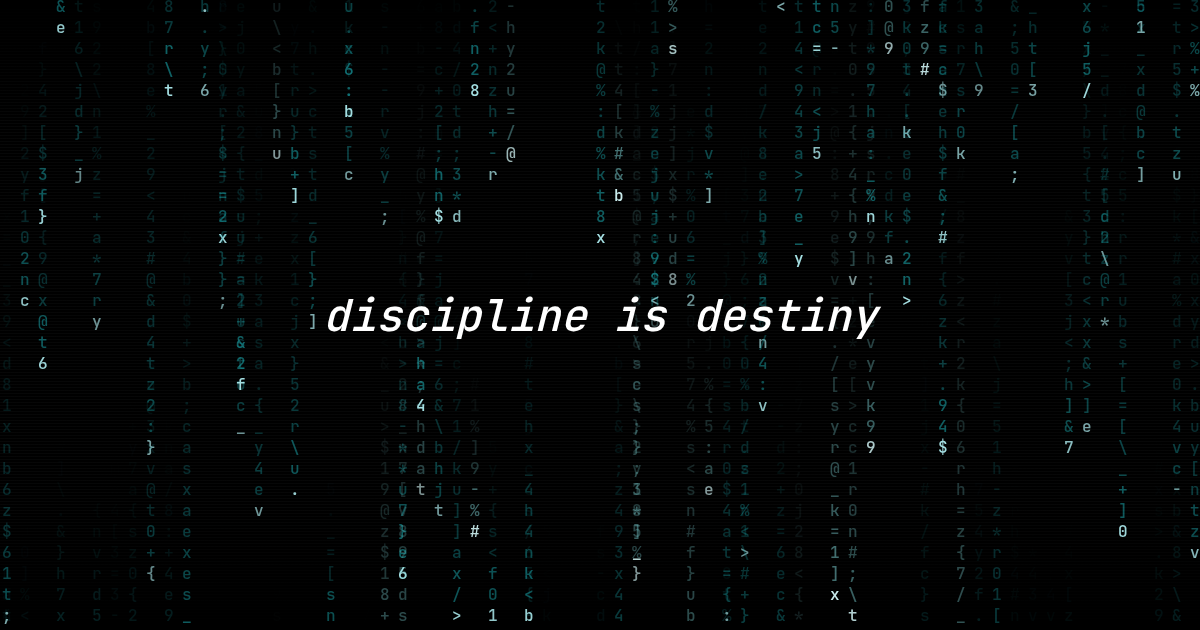
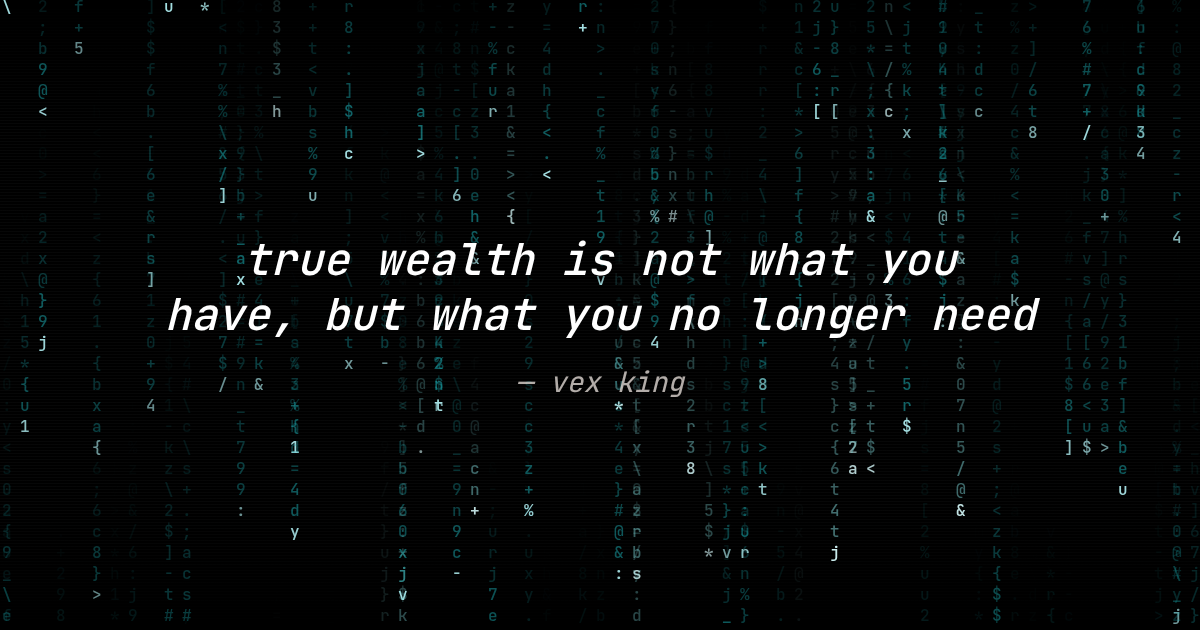
Set the quiet header to the Vex King line.
The shared title is now "true wealth is not what you have, but what you no longer need", with "vex king" on the line under it. The share card and page titles match.

diff --git a/site/confirmed/index.html b/site/confirmed/index.html
@@ -11,7 +11,7 @@
 <meta name="color-scheme" content="dark light">
 <script>document.documentElement.classList.add('js')</script>
 <title>you're in · jay tha ninja</title>
-<link rel="stylesheet" href="/habits/habits.css?v=3.07">
+<link rel="stylesheet" href="/habits/habits.css?v=3.08">
 <style>
[2 lines of base64/hex data omitted]
@@ -93,7 +93,8 @@ a:focus-visible{outline:2px solid var(--c);outline-offset:2px}
 
 <main class="stage" id="stage">
   <div class="copy">
-    <header class="mast"><h1 class="pages"><span class="pages-t">discipline is destiny</span></h1>
+    <header class="mast"><h1 class="pages"><span class="pages-t">true wealth is not what you have, but what you no longer need</span></h1>
+      <p class="pages-by">— vex king</p>
       <div class="site-menu">
         <button type="button" class="menu-btn" aria-label="menu" aria-expanded="false" aria-controls="site-nav">
           <svg viewBox="0 0 18 14" aria-hidden="true" focusable="false"><path d="M1 1.5h16M1 7h16M1 12.5h16" fill="none" stroke="currentColor" stroke-width="1.5" stroke-linecap="round"/></svg>

diff --git a/site/index.html b/site/index.html
@@ -9,8 +9,8 @@
 <meta name="theme-color" media="(prefers-color-scheme: light)" content="#ffffff">
 <meta name="color-scheme" content="dark light">
 <script>document.documentElement.classList.add('js')</script>
-<title>discipline is destiny</title>
-<link rel="stylesheet" href="/habits/habits.css?v=3.07">
+<title>true wealth is not what you have, but what you no longer need</title>
+<link rel="stylesheet" href="/habits/habits.css?v=3.08">
 <link rel="stylesheet" href="/assets/rain.css?v=2.61">
 <link rel="icon" href="/favicon.ico?v=3" sizes="any">
 <link rel="icon" type="image/svg+xml" href="/favicon.svg?v=3">
@@ -23,26 +23,27 @@
 <meta property="og:type" content="website">
 <meta property="og:site_name" content="jayroddi.lol">
 <meta property="og:url" content="https://jayroddi.lol/">
-<meta property="og:title" content="discipline is destiny">
+<meta property="og:title" content="true wealth is not what you have, but what you no longer need">
 <meta property="og:description" content="You just need to have the courage to eliminate everything that doesn't directly feed what you really want.">
-<meta property="og:image" content="https://jayroddi.lol/og-card.png?v=3.7">
+<meta property="og:image" content="https://jayroddi.lol/og-card.png?v=3.8">
 <meta property="og:image:width" content="1200">
 <meta property="og:image:height" content="630">
 <meta property="og:image:type" content="image/png">
-<meta property="og:image:alt" content="discipline is destiny">
+<meta property="og:image:alt" content="true wealth is not what you have, but what you no longer need">
 <meta name="twitter:card" content="summary_large_image">
 <meta name="twitter:site" content="@jayroddi">
 <meta name="twitter:url" content="https://jayroddi.lol/">
-<meta name="twitter:title" content="discipline is destiny">
+<meta name="twitter:title" content="true wealth is not what you have, but what you no longer need">
 <meta name="twitter:description" content="You just need to have the courage to eliminate everything that doesn't directly feed what you really want.">
-<meta name="twitter:image" content="https://jayroddi.lol/og-card.png?v=3.7">
-<meta name="twitter:image:alt" content="discipline is destiny">
+<meta name="twitter:image" content="https://jayroddi.lol/og-card.png?v=3.8">
+<meta name="twitter:image:alt" content="true wealth is not what you have, but what you no longer need">
 <script type="application/ld+json">{"@context":"https://schema.org","@type":"WebSite","name":"jayroddi.lol","url":"https://jayroddi.lol/"}</script>
 </head>
 <body class="board">
 <main class="stage">
   <div class="copy">
-    <header class="mast"><h1 class="pages"><span class="pages-t">discipline is destiny</span></h1>
+    <header class="mast"><h1 class="pages"><span class="pages-t">true wealth is not what you have, but what you no longer need</span></h1>
+      <p class="pages-by">— vex king</p>
       <div class="site-menu">
         <button type="button" class="menu-btn" aria-label="menu" aria-expanded="false" aria-controls="site-nav">
           <svg viewBox="0 0 18 14" aria-hidden="true" focusable="false"><path d="M1 1.5h16M1 7h16M1 12.5h16" fill="none" stroke="currentColor" stroke-width="1.5" stroke-linecap="round"/></svg>

diff --git a/site/habits/habits.css b/site/habits/habits.css
@@ -32,7 +32,7 @@ body.board .mast .pages{box-sizing:border-box;display:flex;flex-wrap:nowrap;alig
 body.board .mast .pages:focus-visible{outline:2px solid var(--c);outline-offset:-4px}
 @keyframes title-glow{0%,100%{text-shadow:0 0 2px rgba(var(--c-rgb),.45)}50%{text-shadow:0 0 14px rgba(var(--c-rgb),.95),0 0 4px rgba(var(--c-rgb),.7)}}
 body.board .mast button.pages .pages-t{display:inline-block;color:inherit;font-style:italic;animation:title-glow 1.05s ease-in-out infinite}
-body.board .mast h1.pages .pages-t{display:inline-block;color:inherit;font-style:italic}
+body.board .mast h1.pages .pages-t{display:inline;color:inherit;font-style:italic;white-space:normal}
 @media (prefers-reduced-motion:reduce){body.board .mast button.pages .pages-t{animation:none;text-shadow:0 0 8px rgba(var(--c-rgb),.75)}}
 /* v3.04: the shared title is an h1. it is teal and italic, and it does not pulse, glow, or act as a control. */
 body.board .mast h1.pages{color:var(--c);text-shadow:none;cursor:default}
@@ -285,6 +285,9 @@ body.day .quiet{margin-top:8px;font-size:15px;line-height:1.5;font-weight:400;co
 :root body.board .mast .nav a{padding:0 var(--nav-pad)}
 :root body.board .mast .pages,:root body.board .mast .nav{--hw:min(100vw - 16px,720px);width:var(--hw);max-width:none;margin-left:calc((100% - var(--hw)) / 2);margin-right:calc((100% - var(--hw)) / 2);flex-wrap:nowrap}
 :root body.board .mast .pages{white-space:nowrap}
+/* v3.08: the shared title is a full sentence, so the h1 wraps inside the column and stays clear of the menu. the name under it is the same quieter line as the quote's name. */
+:root body.board .mast h1.pages{display:block;white-space:normal;height:auto;--hw:min(100%,720px);width:var(--hw);max-width:none;margin-left:auto;margin-right:auto;padding:calc((var(--mast-row) - var(--mast-line)) / 2) 52px 0;line-height:var(--mast-lh);text-wrap:balance}
+body.board .mast .pages-by{margin:10px 0 0;padding:0 52px;font-family:var(--mono);font-size:13px;font-weight:400;font-style:italic;line-height:1.4;color:var(--ink-2);text-align:center}
 :root body.board .mast .nav{flex-direction:row;justify-content:center;align-items:center;white-space:nowrap}
 :root body.board .copy > .note-line,:root body.snaps .backlog{--hw:min(100vw - 24px,720px);width:var(--hw);max-width:none;margin-left:calc((100% - var(--hw)) / 2);margin-right:calc((100% - var(--hw)) / 2);white-space:nowrap}
 
@@ -295,7 +298,7 @@ body.board .clear .clear-by{margin:10px 0 0;font-family:var(--mono);font-size:13
 @media (max-width:760px){
   body.board .clear{margin:8px auto 32px}
   body.board .clear .clear-q{font-size:15px;line-height:1.6}
-  body.board .clear .clear-by{font-size:12px}
+  body.board .clear .clear-by,body.board .mast .pages-by{font-size:12px}
 }
 /* v3.03: the quiet homepage does not invert. a fast-mode attribute, if one is ever set, still leaves the accents teal. light mode uses the same deeper teal as the rest of the site. */
 html.quiet[data-mode="fast"]{

diff --git a/site/me/index.html b/site/me/index.html
@@ -10,7 +10,7 @@
 <meta name="color-scheme" content="dark light">
 <script>document.documentElement.classList.add('js')</script>
 <title>me</title>
-<link rel="stylesheet" href="/habits/habits.css?v=3.07">
+<link rel="stylesheet" href="/habits/habits.css?v=3.08">
 <link rel="icon" href="/favicon.ico?v=3" sizes="any">
 <link rel="icon" type="image/svg+xml" href="/favicon.svg?v=3">
 <link rel="icon" type="image/png" sizes="32x32" href="/favicon-32.png?v=3">
@@ -24,25 +24,26 @@
 <meta property="og:url" content="https://jayroddi.lol/me/">
 <meta property="og:title" content="me">
 <meta property="og:description" content="we fall to the level of our habits">
-<meta property="og:image" content="https://jayroddi.lol/og-card.png?v=3.7">
+<meta property="og:image" content="https://jayroddi.lol/og-card.png?v=3.8">
 <meta property="og:image:width" content="1200">
 <meta property="og:image:height" content="630">
 <meta property="og:image:type" content="image/png">
-<meta property="og:image:alt" content="discipline is destiny">
+<meta property="og:image:alt" content="true wealth is not what you have, but what you no longer need">
 <meta name="twitter:card" content="summary_large_image">
 <meta name="twitter:site" content="@jayroddi">
 <meta name="twitter:url" content="https://jayroddi.lol/me/">
 <meta name="twitter:title" content="me">
 <meta name="twitter:description" content="we fall to the level of our habits">
-<meta name="twitter:image" content="https://jayroddi.lol/og-card.png?v=3.7">
-<meta name="twitter:image:alt" content="discipline is destiny">
+<meta name="twitter:image" content="https://jayroddi.lol/og-card.png?v=3.8">
+<meta name="twitter:image:alt" content="true wealth is not what you have, but what you no longer need">
 <script type="application/ld+json">{"@context":"https://schema.org","@type":"WebPage","name":"me","url":"https://jayroddi.lol/me/","isPartOf":{"@type":"WebSite","name":"jayroddi.lol","url":"https://jayroddi.lol/"}}</script>
 <link rel="stylesheet" href="/assets/rain.css?v=2.61">
 </head>
 <body class="board">
 <main class="stage" id="stage">
   <div class="copy">
-    <header class="mast"><h1 class="pages"><span class="pages-t">discipline is destiny</span></h1>
+    <header class="mast"><h1 class="pages"><span class="pages-t">true wealth is not what you have, but what you no longer need</span></h1>
+      <p class="pages-by">— vex king</p>
       <div class="site-menu">
         <button type="button" class="menu-btn" aria-label="menu" aria-expanded="false" aria-controls="site-nav">
           <svg viewBox="0 0 18 14" aria-hidden="true" focusable="false"><path d="M1 1.5h16M1 7h16M1 12.5h16" fill="none" stroke="currentColor" stroke-width="1.5" stroke-linecap="round"/></svg>

diff --git a/site/snaps/index.html b/site/snaps/index.html
@@ -13,7 +13,7 @@
 <link rel="preconnect" href="https://www.google-analytics.com">
 <script>document.documentElement.classList.add('js');window.__snaps=fetch('/snaps/snaps.json',{cache:'no-cache'}).then(function(r){if(!r.ok)throw new Error();return r.json();});</script>
 <title>snaps</title>
-<link rel="stylesheet" href="/habits/habits.css?v=3.07">
+<link rel="stylesheet" href="/habits/habits.css?v=3.08">
 <link rel="stylesheet" href="/assets/rain.css?v=2.61">
 <link rel="stylesheet" href="/snaps/snaps.css?v=2.41">
 <link rel="icon" href="/favicon.ico?v=3" sizes="any">
@@ -29,24 +29,25 @@
 <meta property="og:url" content="https://jayroddi.lol/snaps/">
 <meta property="og:title" content="snaps">
 <meta property="og:description" content="photos">
-<meta property="og:image" content="https://jayroddi.lol/og-card.png?v=3.7">
+<meta property="og:image" content="https://jayroddi.lol/og-card.png?v=3.8">
 <meta property="og:image:width" content="1200">
 <meta property="og:image:height" content="630">
 <meta property="og:image:type" content="image/png">
-<meta property="og:image:alt" content="discipline is destiny">
+<meta property="og:image:alt" content="true wealth is not what you have, but what you no longer need">
 <meta name="twitter:card" content="summary_large_image">
 <meta name="twitter:site" content="@jayroddi">
 <meta name="twitter:url" content="https://jayroddi.lol/snaps/">
 <meta name="twitter:title" content="snaps">
 <meta name="twitter:description" content="photos">
-<meta name="twitter:image" content="https://jayroddi.lol/og-card.png?v=3.7">
-<meta name="twitter:image:alt" content="discipline is destiny">
+<meta name="twitter:image" content="https://jayroddi.lol/og-card.png?v=3.8">
+<meta name="twitter:image:alt" content="true wealth is not what you have, but what you no longer need">
 <script type="application/ld+json">{"@context":"https://schema.org","@type":"WebSite","name":"jayroddi.lol","url":"https://jayroddi.lol/"}</script>
 </head>
 <body class="board snaps">
 <main class="stage">
   <div class="copy">
-    <header class="mast"><h1 class="pages"><span class="pages-t">discipline is destiny</span></h1>
+    <header class="mast"><h1 class="pages"><span class="pages-t">true wealth is not what you have, but what you no longer need</span></h1>
+      <p class="pages-by">— vex king</p>
       <div class="site-menu">
         <button type="button" class="menu-btn" aria-label="menu" aria-expanded="false" aria-controls="site-nav">
           <svg viewBox="0 0 18 14" aria-hidden="true" focusable="false"><path d="M1 1.5h16M1 7h16M1 12.5h16" fill="none" stroke="currentColor" stroke-width="1.5" stroke-linecap="round"/></svg>

diff --git a/site/quotes/index.html b/site/quotes/index.html
@@ -10,7 +10,7 @@
 <meta name="color-scheme" content="dark light">
 <script>document.documentElement.classList.add('js')</script>
 <title>quotes</title>
-<link rel="stylesheet" href="/habits/habits.css?v=3.07">
+<link rel="stylesheet" href="/habits/habits.css?v=3.08">
 <link rel="stylesheet" href="/assets/rain.css?v=2.61">
 <link rel="icon" href="/favicon.ico?v=3" sizes="any">
 <link rel="icon" type="image/svg+xml" href="/favicon.svg?v=3">
@@ -25,22 +25,23 @@
 <meta property="og:url" content="https://jayroddi.lol/quotes">
 <meta property="og:title" content="quotes">
 <meta property="og:description" content="daily quotes from jayroddi.lol">
-<meta property="og:image" content="https://jayroddi.lol/og-card.png?v=3.7">
+<meta property="og:image" content="https://jayroddi.lol/og-card.png?v=3.8">
 <meta property="og:image:width" content="1200">
 <meta property="og:image:height" content="630">
-<meta property="og:image:alt" content="discipline is destiny">
+<meta property="og:image:alt" content="true wealth is not what you have, but what you no longer need">
 <meta name="twitter:card" content="summary_large_image">
 <meta name="twitter:site" content="@jayroddi">
 <meta name="twitter:url" content="https://jayroddi.lol/quotes">
 <meta name="twitter:title" content="quotes">
 <meta name="twitter:description" content="daily quotes from jayroddi.lol">
-<meta name="twitter:image" content="https://jayroddi.lol/og-card.png?v=3.7">
-<meta name="twitter:image:alt" content="discipline is destiny">
+<meta name="twitter:image" content="https://jayroddi.lol/og-card.png?v=3.8">
+<meta name="twitter:image:alt" content="true wealth is not what you have, but what you no longer need">
 </head>
 <body class="board">
 <main class="stage">
   <div class="copy">
-    <header class="mast"><h1 class="pages"><span class="pages-t">discipline is destiny</span></h1>
+    <header class="mast"><h1 class="pages"><span class="pages-t">true wealth is not what you have, but what you no longer need</span></h1>
+      <p class="pages-by">— vex king</p>
       <div class="site-menu">
         <button type="button" class="menu-btn" aria-label="menu" aria-expanded="false" aria-controls="site-nav">
           <svg viewBox="0 0 18 14" aria-hidden="true" focusable="false"><path d="M1 1.5h16M1 7h16M1 12.5h16" fill="none" stroke="currentColor" stroke-width="1.5" stroke-linecap="round"/></svg>

diff --git a/site/books/index.html b/site/books/index.html
@@ -10,7 +10,7 @@
 <meta name="color-scheme" content="dark light">
 <script>document.documentElement.classList.add('js')</script>
 <title>books</title>
-<link rel="stylesheet" href="/habits/habits.css?v=3.07">
+<link rel="stylesheet" href="/habits/habits.css?v=3.08">
 <link rel="stylesheet" href="/assets/rain.css?v=2.61">
 <link rel="stylesheet" href="/books/books.css?v=0.2">
 <link rel="icon" href="/favicon.ico?v=3" sizes="any">
@@ -26,22 +26,23 @@
 <meta property="og:url" content="https://jayroddi.lol/books/">
 <meta property="og:title" content="books">
 <meta property="og:description" content="we read to know we are not alone">
-<meta property="og:image" content="https://jayroddi.lol/og-card.png?v=3.7">
+<meta property="og:image" content="https://jayroddi.lol/og-card.png?v=3.8">
 <meta property="og:image:width" content="1200">
 <meta property="og:image:height" content="630">
-<meta property="og:image:alt" content="discipline is destiny">
+<meta property="og:image:alt" content="true wealth is not what you have, but what you no longer need">
 <meta name="twitter:card" content="summary_large_image">
 <meta name="twitter:site" content="@jayroddi">
 <meta name="twitter:url" content="https://jayroddi.lol/books/">
 <meta name="twitter:title" content="books">
 <meta name="twitter:description" content="we read to know we are not alone">
-<meta name="twitter:image" content="https://jayroddi.lol/og-card.png?v=3.7">
-<meta name="twitter:image:alt" content="discipline is destiny">
+<meta name="twitter:image" content="https://jayroddi.lol/og-card.png?v=3.8">
+<meta name="twitter:image:alt" content="true wealth is not what you have, but what you no longer need">
 </head>
 <body class="board">
 <main class="stage">
   <div class="copy">
-    <header class="mast"><h1 class="pages"><span class="pages-t">discipline is destiny</span></h1>
+    <header class="mast"><h1 class="pages"><span class="pages-t">true wealth is not what you have, but what you no longer need</span></h1>
+      <p class="pages-by">— vex king</p>
       <div class="site-menu">
         <button type="button" class="menu-btn" aria-label="menu" aria-expanded="false" aria-controls="site-nav">
           <svg viewBox="0 0 18 14" aria-hidden="true" focusable="false"><path d="M1 1.5h16M1 7h16M1 12.5h16" fill="none" stroke="currentColor" stroke-width="1.5" stroke-linecap="round"/></svg>

diff --git a/site/music/index.html b/site/music/index.html
@@ -10,7 +10,7 @@
 <meta name="color-scheme" content="dark light">
 <script>document.documentElement.classList.add('js')</script>
 <title>music</title>
-<link rel="stylesheet" href="/habits/habits.css?v=3.07">
+<link rel="stylesheet" href="/habits/habits.css?v=3.08">
 <link rel="stylesheet" href="/assets/rain.css?v=2.61">
 <link rel="stylesheet" href="/music/music.css?v=0.1">
 <link rel="icon" href="/favicon.ico?v=3" sizes="any">
@@ -26,22 +26,23 @@
 <meta property="og:url" content="https://jayroddi.lol/music/">
 <meta property="og:title" content="music">
 <meta property="og:description" content="forgot about jay">
-<meta property="og:image" content="https://jayroddi.lol/og-card.png?v=3.7">
+<meta property="og:image" content="https://jayroddi.lol/og-card.png?v=3.8">
 <meta property="og:image:width" content="1200">
 <meta property="og:image:height" content="630">
-<meta property="og:image:alt" content="discipline is destiny">
+<meta property="og:image:alt" content="true wealth is not what you have, but what you no longer need">
 <meta name="twitter:card" content="summary_large_image">
 <meta name="twitter:site" content="@jayroddi">
 <meta name="twitter:url" content="https://jayroddi.lol/music/">
 <meta name="twitter:title" content="music">
 <meta name="twitter:description" content="forgot about jay">
-<meta name="twitter:image" content="https://jayroddi.lol/og-card.png?v=3.7">
-<meta name="twitter:image:alt" content="discipline is destiny">
+<meta name="twitter:image" content="https://jayroddi.lol/og-card.png?v=3.8">
+<meta name="twitter:image:alt" content="true wealth is not what you have, but what you no longer need">
 </head>
 <body class="board">
 <main class="stage">
   <div class="copy">
-    <header class="mast"><h1 class="pages"><span class="pages-t">discipline is destiny</span></h1>
+    <header class="mast"><h1 class="pages"><span class="pages-t">true wealth is not what you have, but what you no longer need</span></h1>
+      <p class="pages-by">— vex king</p>
       <div class="site-menu">
         <button type="button" class="menu-btn" aria-label="menu" aria-expanded="false" aria-controls="site-nav">
           <svg viewBox="0 0 18 14" aria-hidden="true" focusable="false"><path d="M1 1.5h16M1 7h16M1 12.5h16" fill="none" stroke="currentColor" stroke-width="1.5" stroke-linecap="round"/></svg>

diff --git a/scripts/cards/card-simple.html b/scripts/cards/card-simple.html
@@ -2,21 +2,22 @@
 <html lang="en">
 <head>
 <meta charset="utf-8">
-<!-- v3.7 (jay 2026.10.26): the one share card for every page. the site's own teal rain (rain.css + rain.js) on black, the header line centered, white, 44px. -->
+<!-- v3.8 (jay 2026.10.28): the one share card for every page. the site's own teal rain (rain.css + rain.js) on black, the header line centered, white, and the name under it. -->
 <meta name="viewport" content="width=1200, initial-scale=1">
 <meta name="color-scheme" content="dark">
 <link rel="stylesheet" href="/habits/habits.css">
 <link rel="stylesheet" href="/assets/rain.css">
 <style>
 html,body{margin:0;width:1200px;height:630px;overflow:hidden;background:#000}
-.card{position:fixed;inset:0;z-index:5;display:flex;align-items:center;justify-content:center}
-.card p{margin:0;font-family:var(--mono);font-size:44px;font-weight:500;font-style:italic;letter-spacing:normal;line-height:1.25;color:#fff;text-align:center;white-space:nowrap;text-shadow:0 0 18px rgba(0,0,0,.95),0 0 6px rgba(0,0,0,.9)}
+.card{position:fixed;inset:0;z-index:5;display:flex;flex-direction:column;align-items:center;justify-content:center;padding:0 88px;gap:22px}
+.card p{margin:0;font-family:var(--mono);font-size:44px;font-weight:500;font-style:italic;letter-spacing:normal;line-height:1.25;color:#fff;text-align:center;white-space:normal;text-wrap:balance;text-shadow:0 0 18px rgba(0,0,0,.95),0 0 6px rgba(0,0,0,.9)}
+.card .by{font-size:28px;font-weight:400;color:rgba(246,239,233,.72)}
 </style>
 </head>
 <body class="board">
 <canvas id="rain" aria-hidden="true"></canvas>
 <div class="scan" aria-hidden="true"></div>
-<div class="card"><p>discipline is destiny</p></div>
+<div class="card"><p>true wealth is not what you have, but what you no longer need</p><p class="by">— vex king</p></div>
 <script src="/assets/rain.js"></script>
 <script>
 // the same rain the snaps page builds (snaps.js), full height, glyphs behind the line fade like they do behind page content

diff --git a/README.md b/README.md
@@ -8,7 +8,7 @@ The homepage is quiet. The ground is plain and follows the system: black when th
 
 In order:
 
-1. `discipline is destiny`. Teal (`--c`: `#1AADB3` in the dark theme, `#127F84` in the light theme). It does not pulse, glow, or change colour. It is not a control.
+1. `true wealth is not what you have, but what you no longer need`, then `vex king` on the next line. The title is teal (`--c`: `#1AADB3` in the dark theme, `#127F84` in the light theme). It does not pulse, glow, or change colour. It is not a control. The name uses the quieter ink (`--ink-2`).
 2. One James Clear line in that same teal, then his name in the quieter ink (`--ink-2`), which flips with the theme.
 3. The habit grids: code, workouts, steps, sleep, faith. The labels and the filled cells use the same teal. Stats labels and values that are not teal flip with the theme.
 
@@ -16,7 +16,7 @@ Every visible word on the homepage is italic: the title, the quote, the name, th
 
 A menu button sits on the title line, at the right edge of the content column, on `/` and on every page that shares this header, on a wide screen and on a phone. It is three short lines in `#FF4D1A`, the only orange on these pages. A tap opens a small panel, not a full-screen menu: daily, snaps, music, books, quotes. Daily is the homepage. The current page is underlined. `/me/` is not in the menu; the address still works. Escape and a click outside close it. There is no center nav, email field, konami row, or social row.
 
-`/snaps/`, `/music/`, `/books/`, and `/quotes/` open from that menu. `/me/` and `/confirmed/` still open by URL. Each one starts with the same header as the homepage: the teal italic title, then the James Clear line and his name. Under that is that page’s own content. There is no second title line, no email field, no konami row, and no social row. The ground is plain (no mist) and follows the system the same way `/` does. `/habits/` still forwards to `/me/`. The nightly sync still updates snaps and the playlist.
+`/snaps/`, `/music/`, `/books/`, and `/quotes/` open from that menu. `/me/` and `/confirmed/` still open by URL. Each one starts with the same header as the homepage: the teal italic title, then `vex king`, then the James Clear line and his name. Under that is that page’s own content. There is no second title line, no email field, no konami row, and no social row. The ground is plain (no mist) and follows the system the same way `/` does. `/habits/` still forwards to `/me/`. The nightly sync still updates snaps and the playlist.
 
 ## snaps
 
